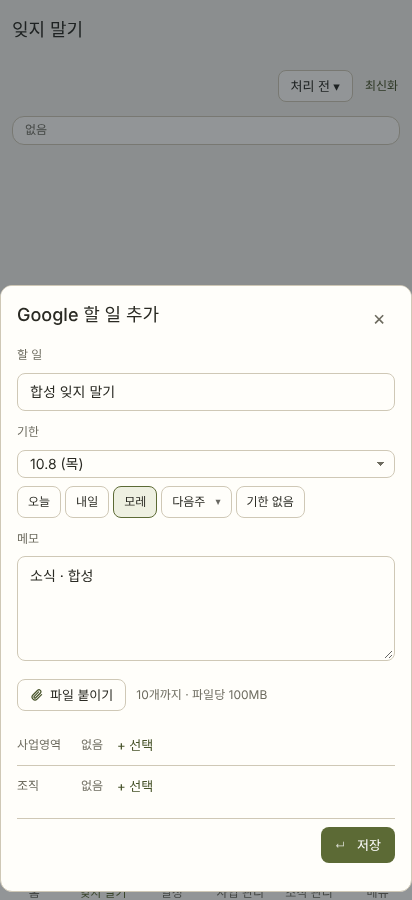
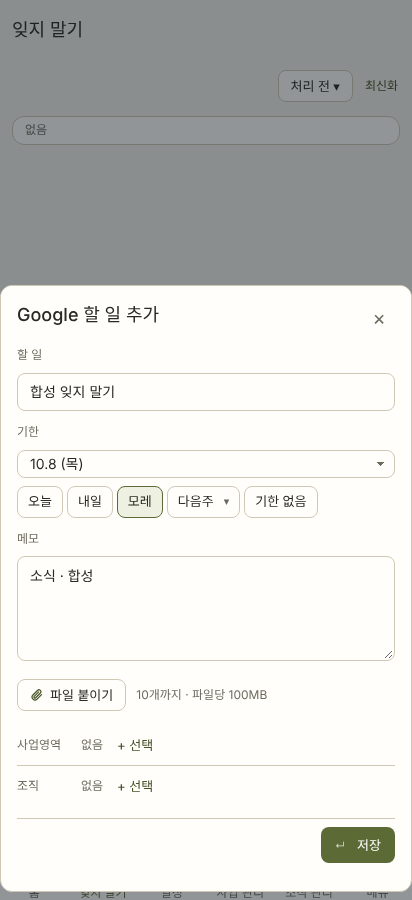
[FIX-잊지말기할일기한] 창 안 빠른 기한 버튼 글자를 공용 창 기준(13px)으로
Claude-Session: https://claude.ai/code/session_01QdB5NPWrUibuGPpWa77oYt

Changed region(s): [[0.1456, 0.5289, 0.7573, 0.5911], [0.0874, 0.5289, 0.1165, 0.56]]

diff --git a/app/google-tasks.css b/app/google-tasks.css
@@ -146,7 +146,8 @@ div.gt-main{cursor:default}
    (이미 있는 할 일은 예전처럼 누르면 바로 저장). 고른 버튼은 고른 표시. PC 상세 칸 배치는 아래 규칙 그대로. */
 #gtTaskModal .gt-due-quick{display:flex;flex-wrap:wrap;gap:var(--kptu-space-1);align-items:center;min-width:0}
 #gtTaskModal:not(.gt-docked) .gt-due-quick{margin:calc(-1 * var(--kptu-space-1)) 0 var(--kptu-space-2)}
-#gtTaskModal .gt-due-quick>button{min-height:var(--ds-compact-height,32px);height:var(--ds-compact-height,32px);padding:0 10px;margin:0;font-size:var(--ds-text-meta);white-space:nowrap}
+/* 창(폰 수정·새 할 일) 안 버튼은 공용 창 기준 글자(13px)를 따른다. 상세 칸 글자 크기는 아래 상세 칸 규칙. */
+#gtTaskModal .gt-due-quick>button{min-height:var(--ds-compact-height,32px);height:var(--ds-compact-height,32px);padding:0 10px;margin:0;white-space:nowrap}
 /* PC 틀(761~)에서만: 입력 카드 자리(화면 아래 여백 12px은 desktop-ui.css main 공용 규칙, UI-PC스크롤묶음 ④). 폴드 펼침(600~760)은 폰 틀(아래 입력칸·탭·하단바가 떠 있음) 그대로다. */
 @media(min-width:761px){
   #appView #tasksView:not(.hidden):has(#gtTaskSection.gt-pc){display:flex;flex-direction:column;height:auto;min-height:calc(100vh - 24px - var(--kptu-topline-space,0px));min-height:calc(100dvh - 24px - var(--kptu-topline-space,0px))}
